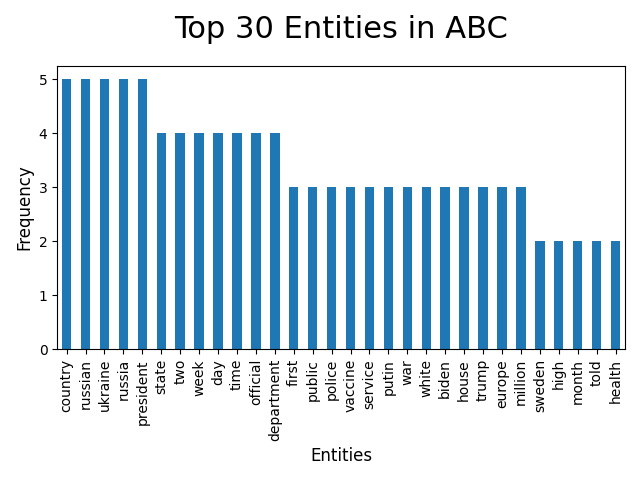
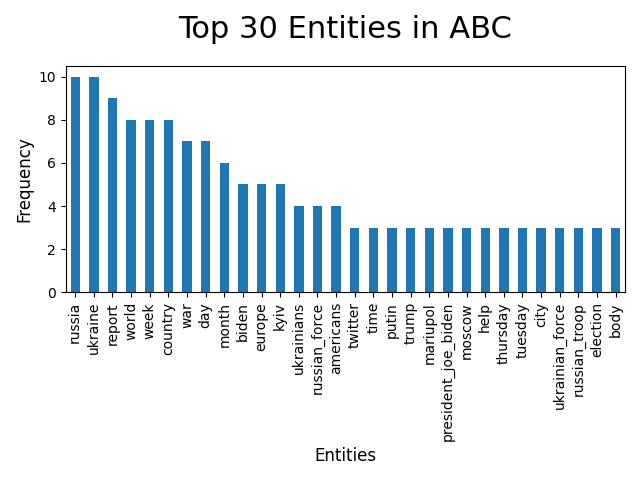
Considered multi word noun phrases as one.

Changed region(s): [[0.0312, 0.125, 0.9688, 0.9375], [0.2812, 0.0312, 0.8125, 0.0938], [0.4688, 0.9375, 0.5938, 0.9688]]

diff --git a/LDA/LDA.py b/LDA/LDA.py
@@ -4,27 +4,75 @@ from collections import Counter
 
 import pandas as pd
 from matplotlib import pyplot as plt
-from nltk import WordNetLemmatizer
+import nltk
+from nltk import WordNetLemmatizer, pos_tag, word_tokenize
+from nltk.chunk import tree2conlltags
 from nltk.corpus import stopwords
 from sklearn.feature_extraction.text import CountVectorizer
 from sklearn.decomposition import LatentDirichletAllocation
 
 # Download the necessary NLTK data files
-import nltk
 nltk.download('wordnet')
 nltk.download('stopwords')
+nltk.download('averaged_perceptron_tagger')
+nltk.download('maxent_ne_chunker')
+nltk.download('words')
+nltk.download('punkt')
 
-# Step 1: Introduce pre-processing and lemmatization
+# Define functions for preprocessing and noun phrase extraction
 def preprocess_text(text):
-    words = text.split()
-    words = [word for word in words if word.lower() not in stop_words]
+    words = word_tokenize(text)
+    words = [word for word in words if word.lower() not in stop_words and word.isalpha()]
     return ' '.join(words)
 
 def lemmatize_text(text):
-    words = text.split()
+    words = word_tokenize(text)
     lemmatizer = WordNetLemmatizer()
     words = [lemmatizer.lemmatize(word) for word in words]
     return ' '.join(words)
+
+def get_noun_phrases(text):
+    # Tokenize the text into words
+    words = word_tokenize(text)
+
+    # POS tagging
+    pos_tags = pos_tag(words)
+
+    # Define a chunking grammar
+    grammar = r"""
+      NP: {<DT>?<JJ>*<NN.*>+}    # Noun phrase with optional determiner and adjectives
+          {<NNP>+}              # Proper noun sequences (e.g., "Donald Trump")
+          {<NNP><NNP>}          # Two consecutive proper nouns (e.g., "Supreme Court")
+          {<NN><NN>}            # Two consecutive nouns (e.g., "data science")
+          {<JJ><NN>}            # Adjective followed by a noun (e.g., "big data")
+          {<NNP><NNP><NNP>}     # Three consecutive proper nouns (e.g., "New York City")
+    """
+
+    # Create a chunk parser
+    chunk_parser = nltk.RegexpParser(grammar)
+
+    # Chunk the POS-tagged words
+    chunked = chunk_parser.parse(pos_tags)
+
+    # Convert chunked tree to IOB tags
+    iob_tagged = tree2conlltags(chunked)
+
+    noun_phrases = []
+    current_np = []
+
+    # Iterate over the IOB-tagged words
+    for word, pos, chunk in iob_tagged:
+        if chunk == 'B-NP' or chunk == 'I-NP':  # If the word is part of a noun phrase
+            current_np.append(word)
+        elif current_np:  # If we encounter a non-noun phrase and we have accumulated words
+            noun_phrases.append('_'.join(current_np).lower())  # Join with underscores and lowercase
+            current_np = []
+
+    # If there are any remaining words in current_np, add them as a noun phrase
+    if current_np:
+        noun_phrases.append('_'.join(current_np).lower())
+
+    return noun_phrases
 
 def load_and_process_data(paths):
     all_text_list = []
@@ -36,11 +84,16 @@ def load_and_process_data(paths):
         else:
             print(f"File not found: {path}")
 
-    # Preprocess and lemmatize the text
-    all_text_list = [lemmatize_text(preprocess_text(text)) for text in all_text_list]
-    return all_text_list
+    processed_texts = []
+    for text in all_text_list:
+        preprocessed_text = preprocess_text(text)
+        lemmatized_text = lemmatize_text(preprocessed_text)
+        noun_phrases = get_noun_phrases(lemmatized_text)
+        processed_texts.append(' '.join(noun_phrases))
 
-# Step 2: Introduce LDA
+    return processed_texts
+
+# Define the LDA function
 def lda(all_text, name):
     print(f"Starting LDA for {name}")
 
@@ -88,10 +141,10 @@ stop_words = set(stopwords.words('english'))
 additional_stop_words = ['would', 'could', 'get', 'like', '-', 'one', 'also', 'think', 'much', 'know', 'said', 'going', 'abc', 'want', 'back', 'dont', 'even', 'see', 'well', 'really', 'many', 'news', 'mr', 'new', 'fox', 'cnn', 'bbc', 'said', 'say', 'year', 'years', 'people']
 stop_words.update(additional_stop_words)
 
+# Run LDA on full articles dataset
 all_text = load_and_process_data(['/home/kenich/MultiLayrtET2_Project/Data/2_proccessed_data_and_analysis/data/selected_data/articles/articles_full.csv'])
-# Run LDA
 lda(all_text, 'articles')
 
-# Step 5: Run the code on only ABC news
+# Run LDA on ABC news dataset
 all_text = load_and_process_data(['/home/kenich/MultiLayrtET2_Project/Data/2_proccessed_data_and_analysis/data/selected_data/articles/ABC/ABC.csv'])
 lda(all_text, 'ABC')
